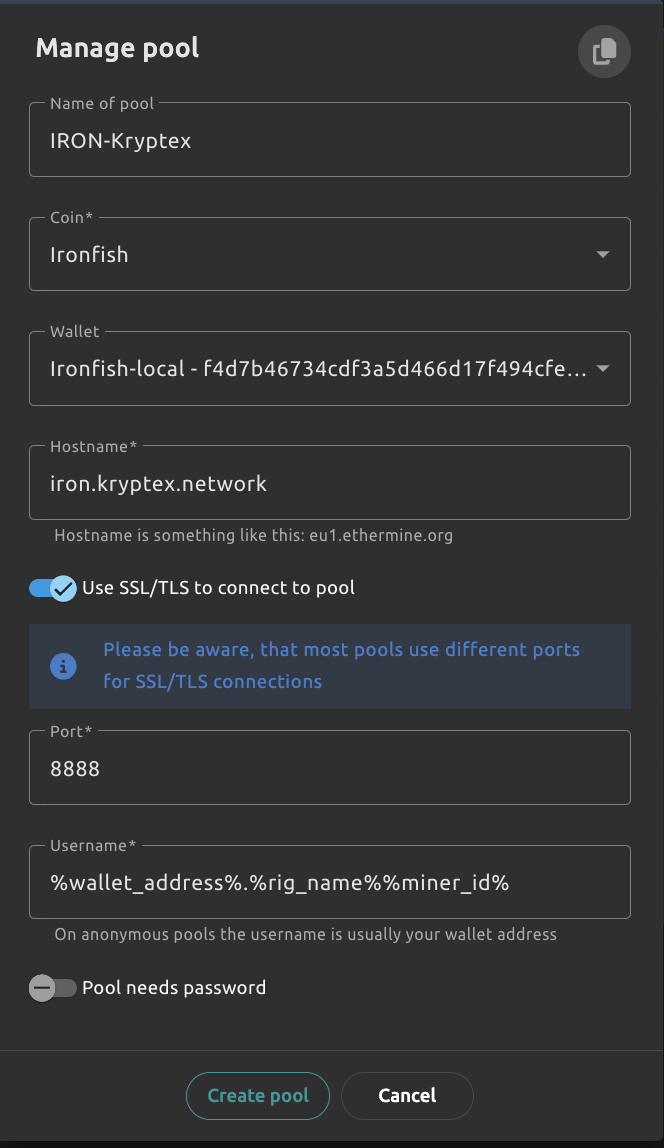
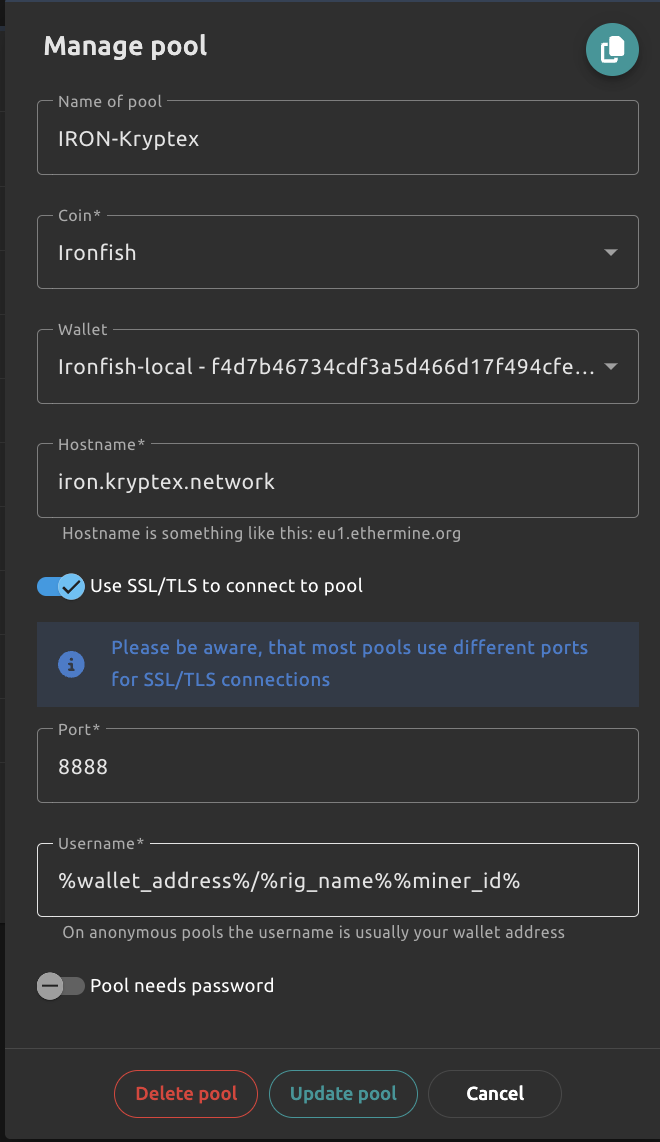
Post latest kryptex update with using slash instead of dot for wallet/worker separation

diff --git a/MINE_ON_KRYPTEX.MD b/MINE_ON_KRYPTEX.MD
@@ -9,6 +9,8 @@
 > Select the coin supported by Kryptex and fill in hostname: `[coin].kryptex.network`.  
 > In port field fill in: `7777` for nonSSL/TLS or `8888` for SSL/TLS.  
 > Example: Hostname: `iron.kryptex.network`, SSL flipped to `ON` and Port: `8888`.  
+> For best experience modify default `Username` field and replace `.` with `/`, example:  
+> `%wallet_address%.%rig_name%%miner_id%` becomes `%wallet_address%/%rig_name%%miner_id%`    
 
 **Sample screenshot:**  
 ![Pool](/imgs/pool_kryptex_ssl.png)  
